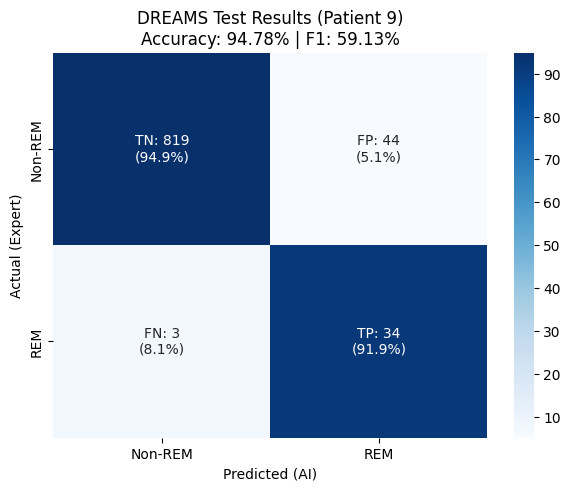
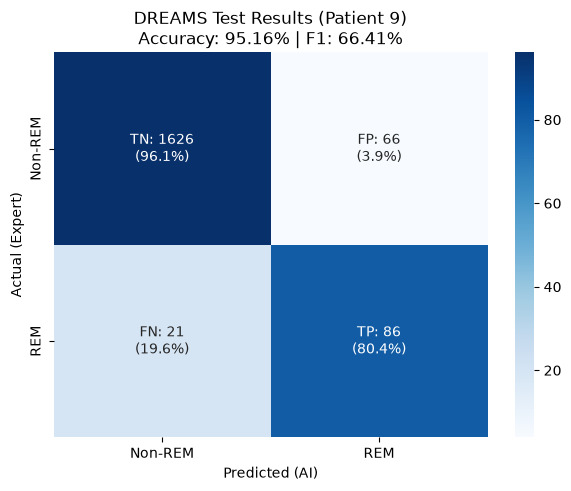
Evaluate base model on patient 9

diff --git a/SSC-EOG-main_dreams/settings.py b/SSC-EOG-main_dreams/settings.py
@@ -12,7 +12,7 @@ WINDOW_STEP_SECONDS = 1.0
 
 # Datenaufteilung
 DREAMS_TRAIN_PATIENTS = [1, 2, 3, 4, 5, 6, 7]
-DREAMS_TEST_PATIENT = 8
+DREAMS_TEST_PATIENT = 9
 SLEEPEDF_EXCERPT_SECONDS = 1800.0
 
 # Labels und Evaluation
